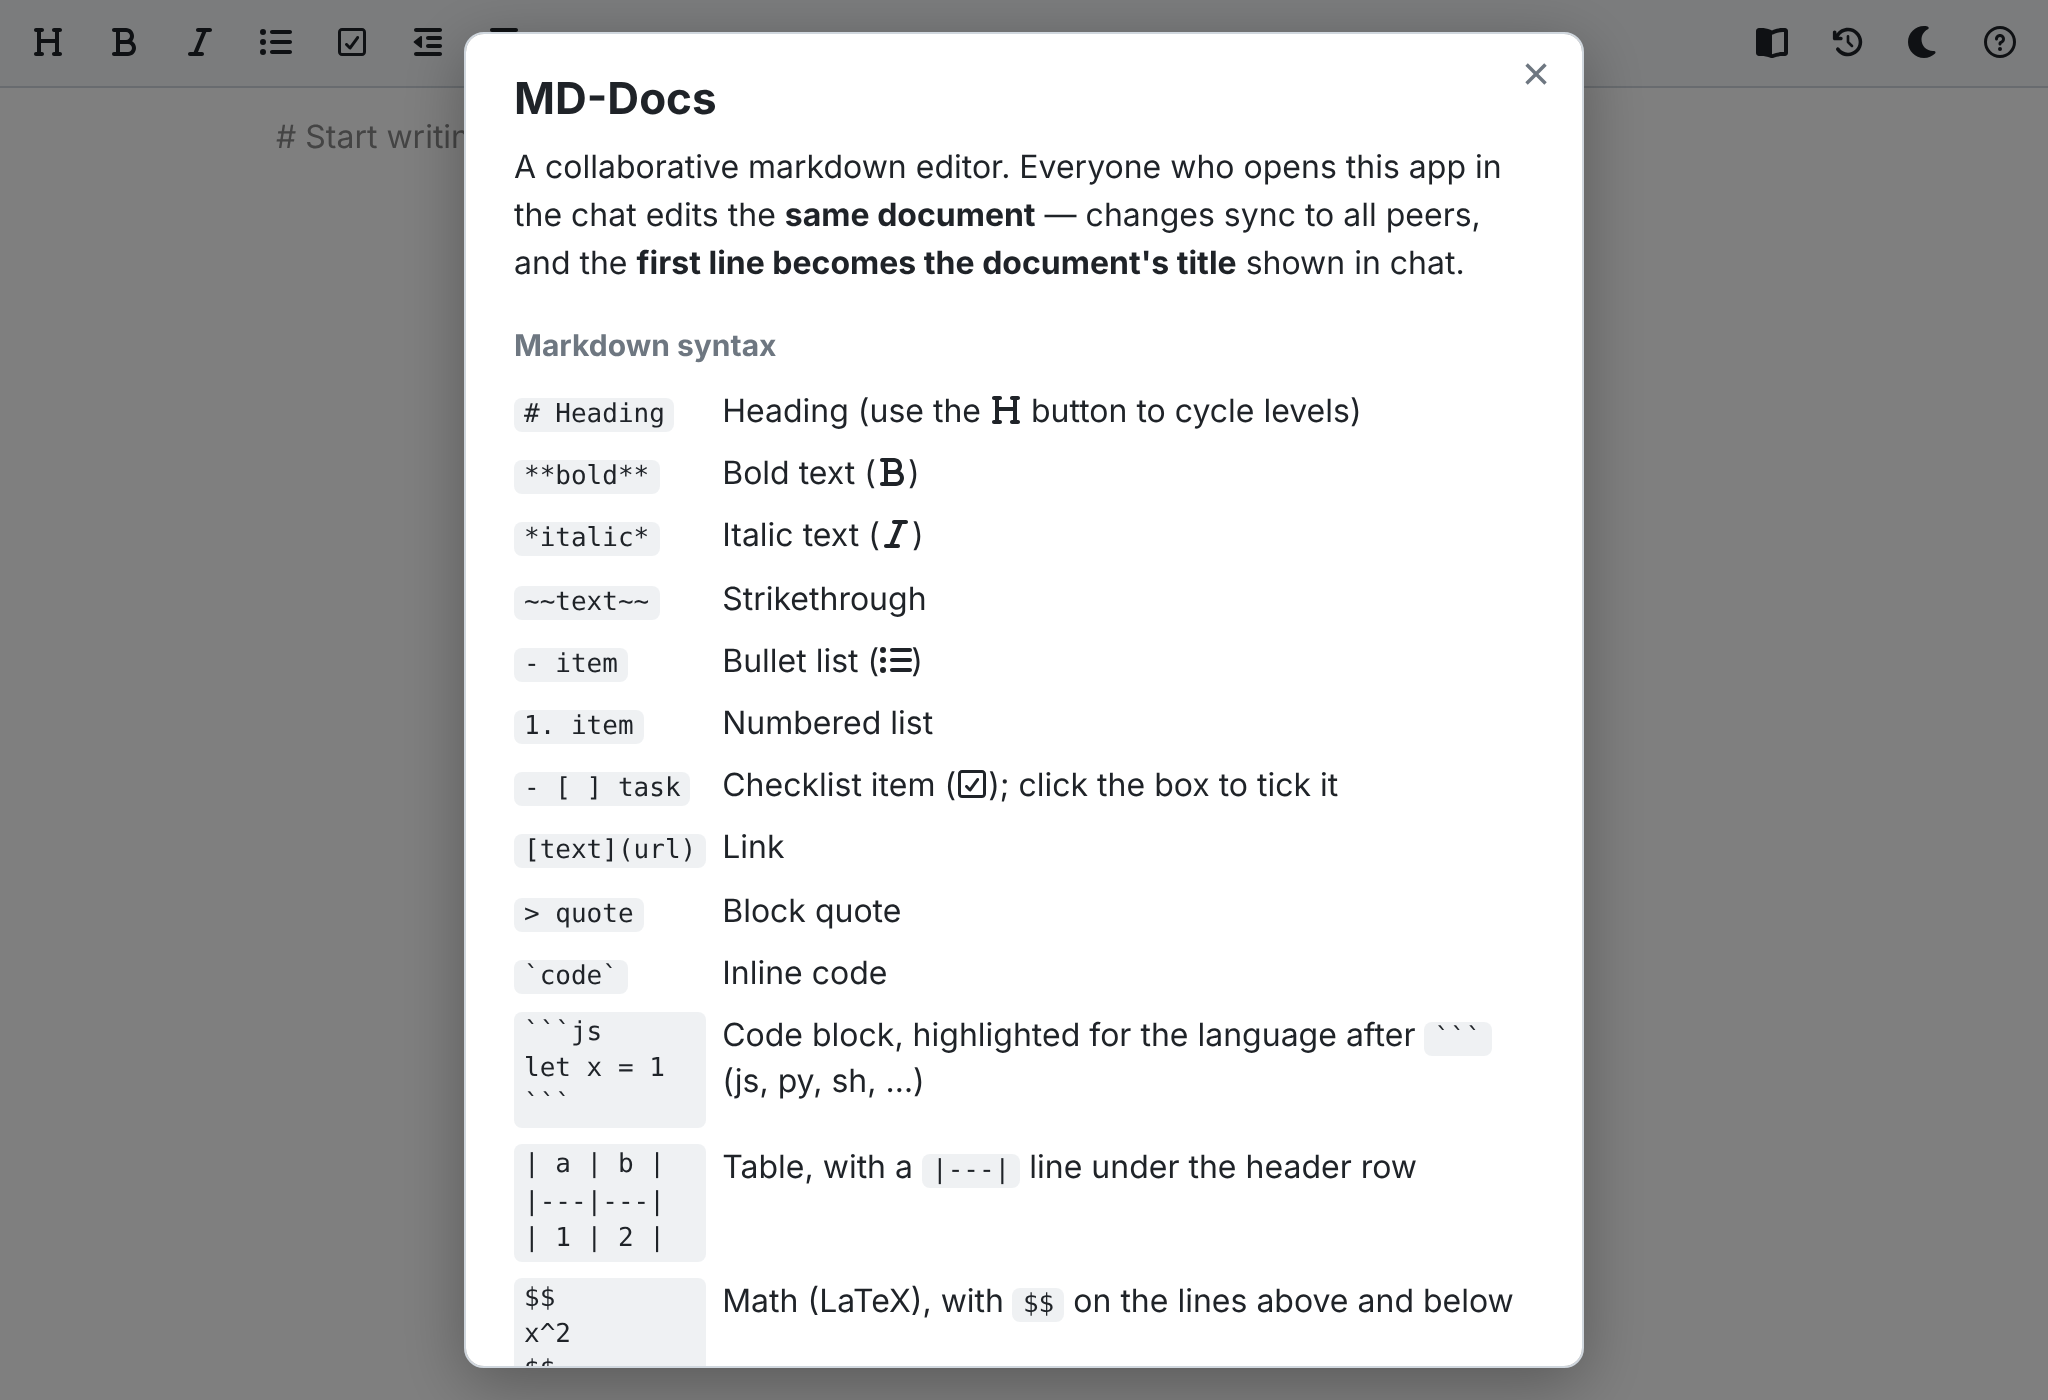
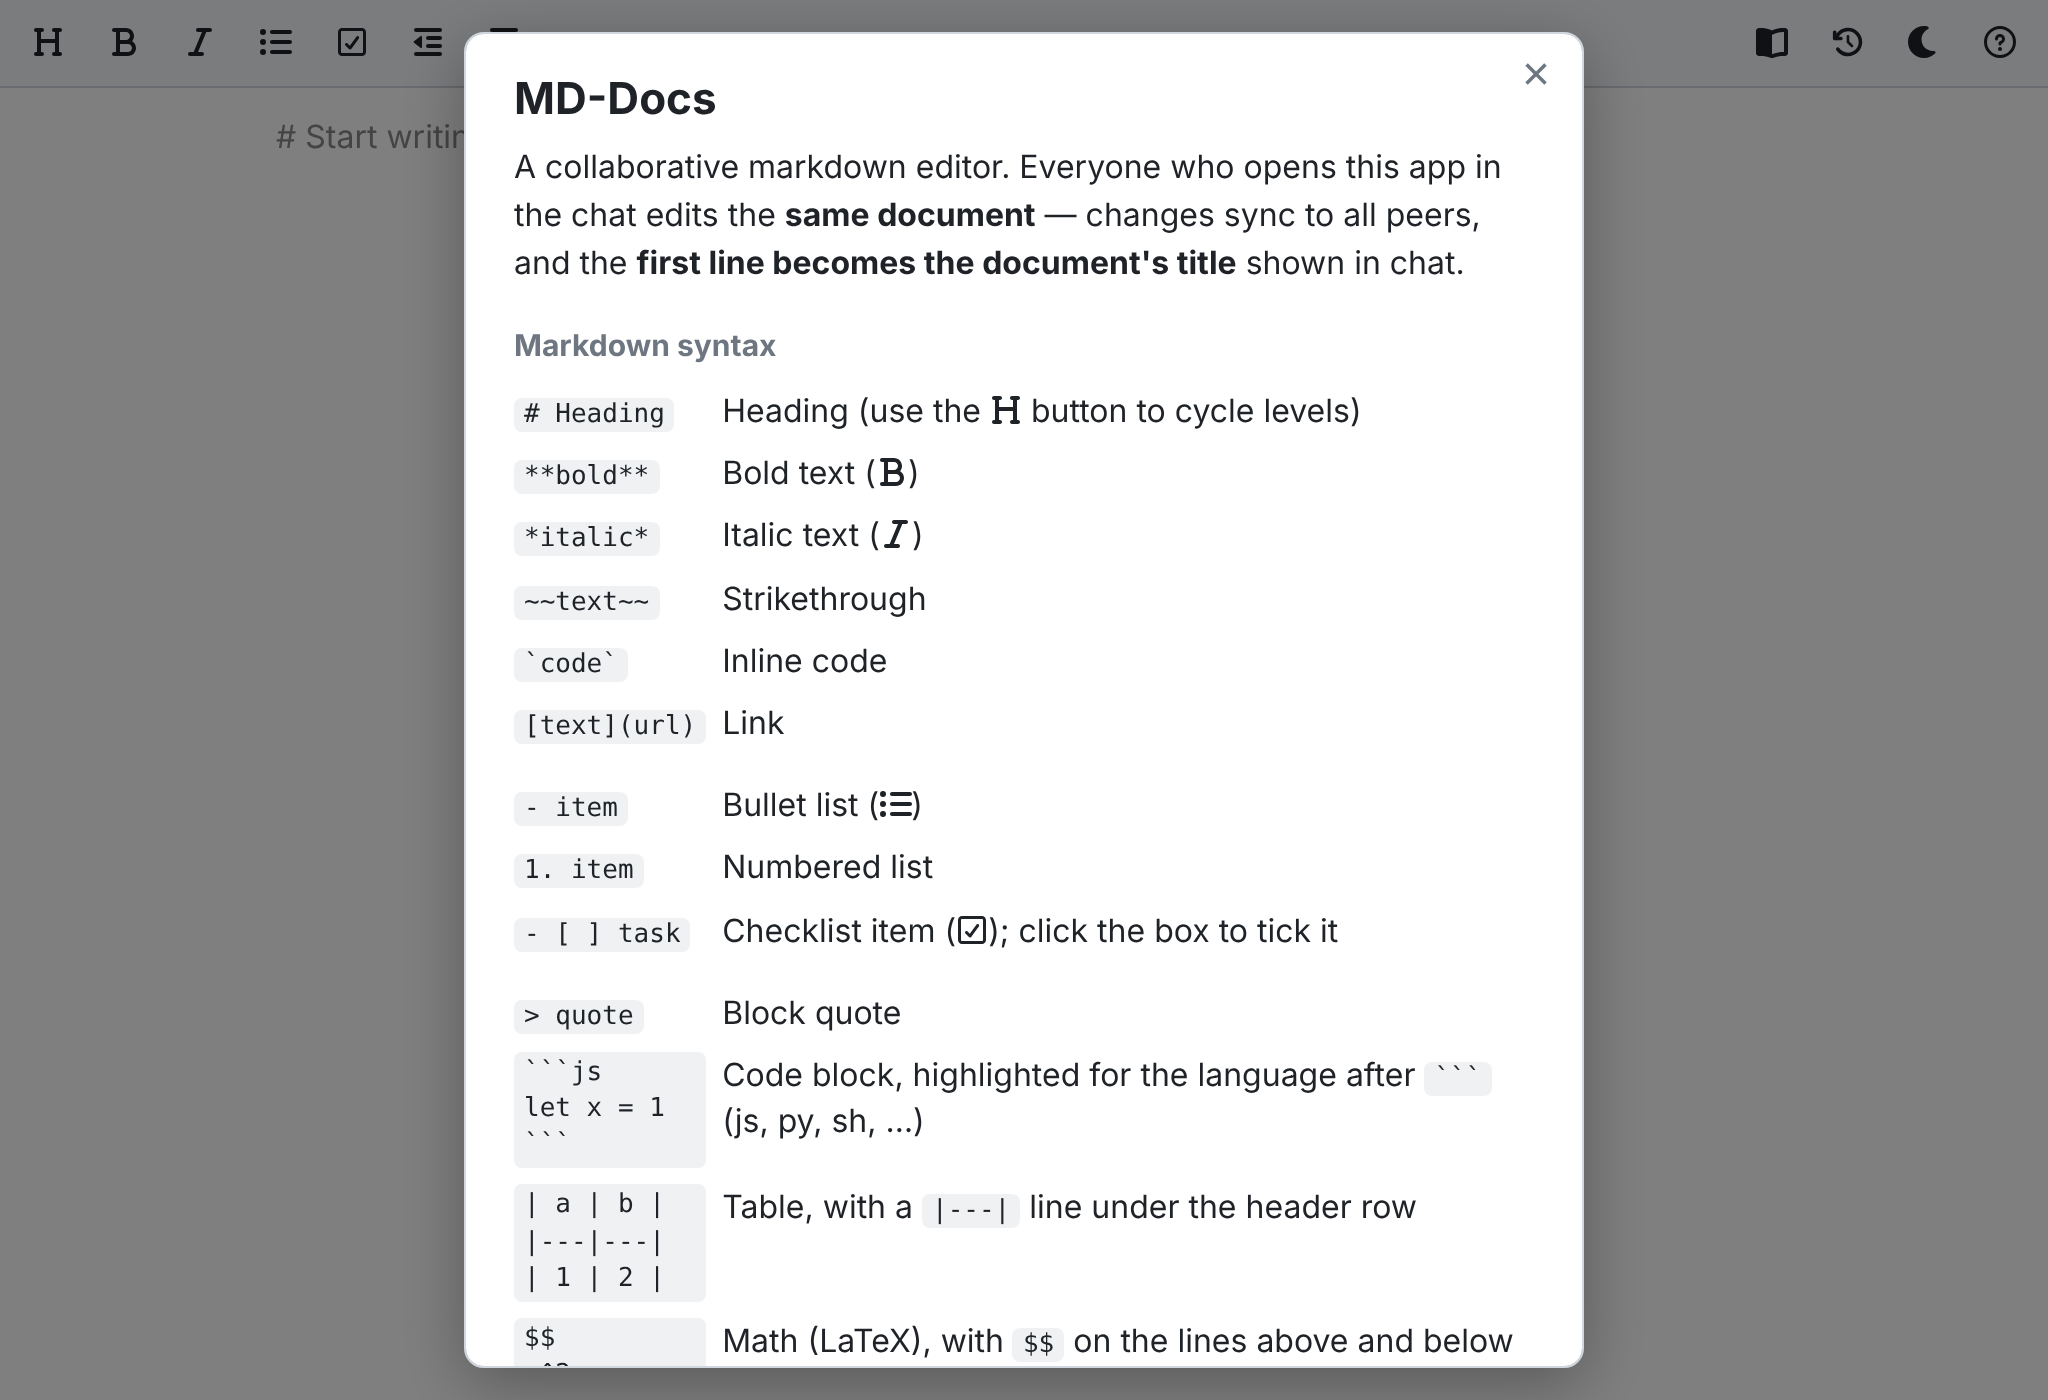
Group the help's syntax list into text, lists and blocks
One tbody per group with a little space between them, so the columns stay
aligned. Inline code and links move into the text group with bold and
italic, since they are inline too; the toolbar's five buttons keep their
order.

diff --git a/src/ui/toolbar.ts b/src/ui/toolbar.ts
@@ -209,20 +209,26 @@ function buildHelp(): HTMLElement {
          the <strong>first line becomes the document's title</strong> shown in chat.</p>
       <h2>Markdown syntax</h2>
       <table>
-        <tr><td><code># Heading</code></td><td>Heading (use the ${ico(faHeading)} button to cycle levels)</td></tr>
-        <tr><td><code>**bold**</code></td><td>Bold text (${ico(faBold)})</td></tr>
-        <tr><td><code>*italic*</code></td><td>Italic text (${ico(faItalic)})</td></tr>
-        <tr><td><code>~~text~~</code></td><td>Strikethrough</td></tr>
-        <tr><td><code>- item</code></td><td>Bullet list (${ico(faListUl)})</td></tr>
-        <tr><td><code>1. item</code></td><td>Numbered list</td></tr>
-        <tr><td><code>- [ ] task</code></td><td>Checklist item (${ico(faSquareCheck)}); click the box to tick it</td></tr>
-        <tr><td><code>[text](url)</code></td><td>Link</td></tr>
-        <tr><td><code>&gt; quote</code></td><td>Block quote</td></tr>
-        <tr><td><code>\`code\`</code></td><td>Inline code</td></tr>
-        <tr><td><pre><code>\`\`\`js&#10;let x = 1&#10;\`\`\`</code></pre></td><td>Code block, highlighted for the language after <code>\`\`\`</code> (js, py, sh, …)</td></tr>
-        <tr><td><pre><code>| a | b |&#10;|---|---|&#10;| 1 | 2 |</code></pre></td><td>Table, with a <code>|---|</code> line under the header row</td></tr>
-        <tr><td><pre><code>$$&#10;x^2&#10;$$</code></pre></td><td>Math (LaTeX), with <code>$$</code> on the lines above and below</td></tr>
-        <tr><td><code>---</code></td><td>Separator line (three or more minuses on their own line)</td></tr>
+        <tbody>
+          <tr><td><code># Heading</code></td><td>Heading (use the ${ico(faHeading)} button to cycle levels)</td></tr>
+          <tr><td><code>**bold**</code></td><td>Bold text (${ico(faBold)})</td></tr>
+          <tr><td><code>*italic*</code></td><td>Italic text (${ico(faItalic)})</td></tr>
+          <tr><td><code>~~text~~</code></td><td>Strikethrough</td></tr>
+          <tr><td><code>\`code\`</code></td><td>Inline code</td></tr>
+          <tr><td><code>[text](url)</code></td><td>Link</td></tr>
+        </tbody>
+        <tbody>
+          <tr><td><code>- item</code></td><td>Bullet list (${ico(faListUl)})</td></tr>
+          <tr><td><code>1. item</code></td><td>Numbered list</td></tr>
+          <tr><td><code>- [ ] task</code></td><td>Checklist item (${ico(faSquareCheck)}); click the box to tick it</td></tr>
+        </tbody>
+        <tbody>
+          <tr><td><code>&gt; quote</code></td><td>Block quote</td></tr>
+          <tr><td><pre><code>\`\`\`js&#10;let x = 1&#10;\`\`\`</code></pre></td><td>Code block, highlighted for the language after <code>\`\`\`</code> (js, py, sh, …)</td></tr>
+          <tr><td><pre><code>| a | b |&#10;|---|---|&#10;| 1 | 2 |</code></pre></td><td>Table, with a <code>|---|</code> line under the header row</td></tr>
+          <tr><td><pre><code>$$&#10;x^2&#10;$$</code></pre></td><td>Math (LaTeX), with <code>$$</code> on the lines above and below</td></tr>
+          <tr><td><code>---</code></td><td>Separator line (three or more minuses on their own line)</td></tr>
+        </tbody>
       </table>
       <h2>Toolbar</h2>
       <table class="help-tools">

diff --git a/css/main.css b/css/main.css
@@ -219,6 +219,8 @@ html, body {
 .help-card table { width: 100%; border-collapse: collapse; }
 .help-card td { padding: 4px 8px 4px 0; vertical-align: top; line-height: 1.4; }
 .help-card td:first-child { white-space: nowrap; }
+/* The syntax table's groups (text, lists, blocks), a little apart. */
+.help-card tbody + tbody tr:first-child td { padding-top: 14px; }
 .help-card svg { width: 1em; height: 1em; vertical-align: -0.125em; }
 /* A multi-line example (the math block) is one block, not a chip per line. */
 .help-card pre {

diff --git a/CHANGELOG.md b/CHANGELOG.md
@@ -58,11 +58,10 @@ All notable changes to MD-Docs are documented here. This project adheres to
 - On a screen up to 560px wide, help opens as a full screen with a back
   button, like the history view, instead of a card over the editor. Wider
   screens keep the dialog. (#32)
-- Help's syntax list now runs from the toolbar's own buttons, in the
-  toolbar's order, through links to the rarer blocks, and adds what the
-  editor already rendered but the help never mentioned: strikethrough,
-  numbered lists, fenced code blocks (with the language name that picks
-  their highlighting) and tables. Multi-line examples (code, tables, math)
+- Help's syntax list is grouped into text, lists and blocks, a little apart,
+  and adds what the editor already rendered but the help never mentioned:
+  strikethrough, numbered lists, fenced code blocks (with the language name
+  that picks their highlighting) and tables. Multi-line examples (code, tables, math)
   show as one block, and the toolbar's buttons are a table instead of one
   long sentence. (#32)
 
